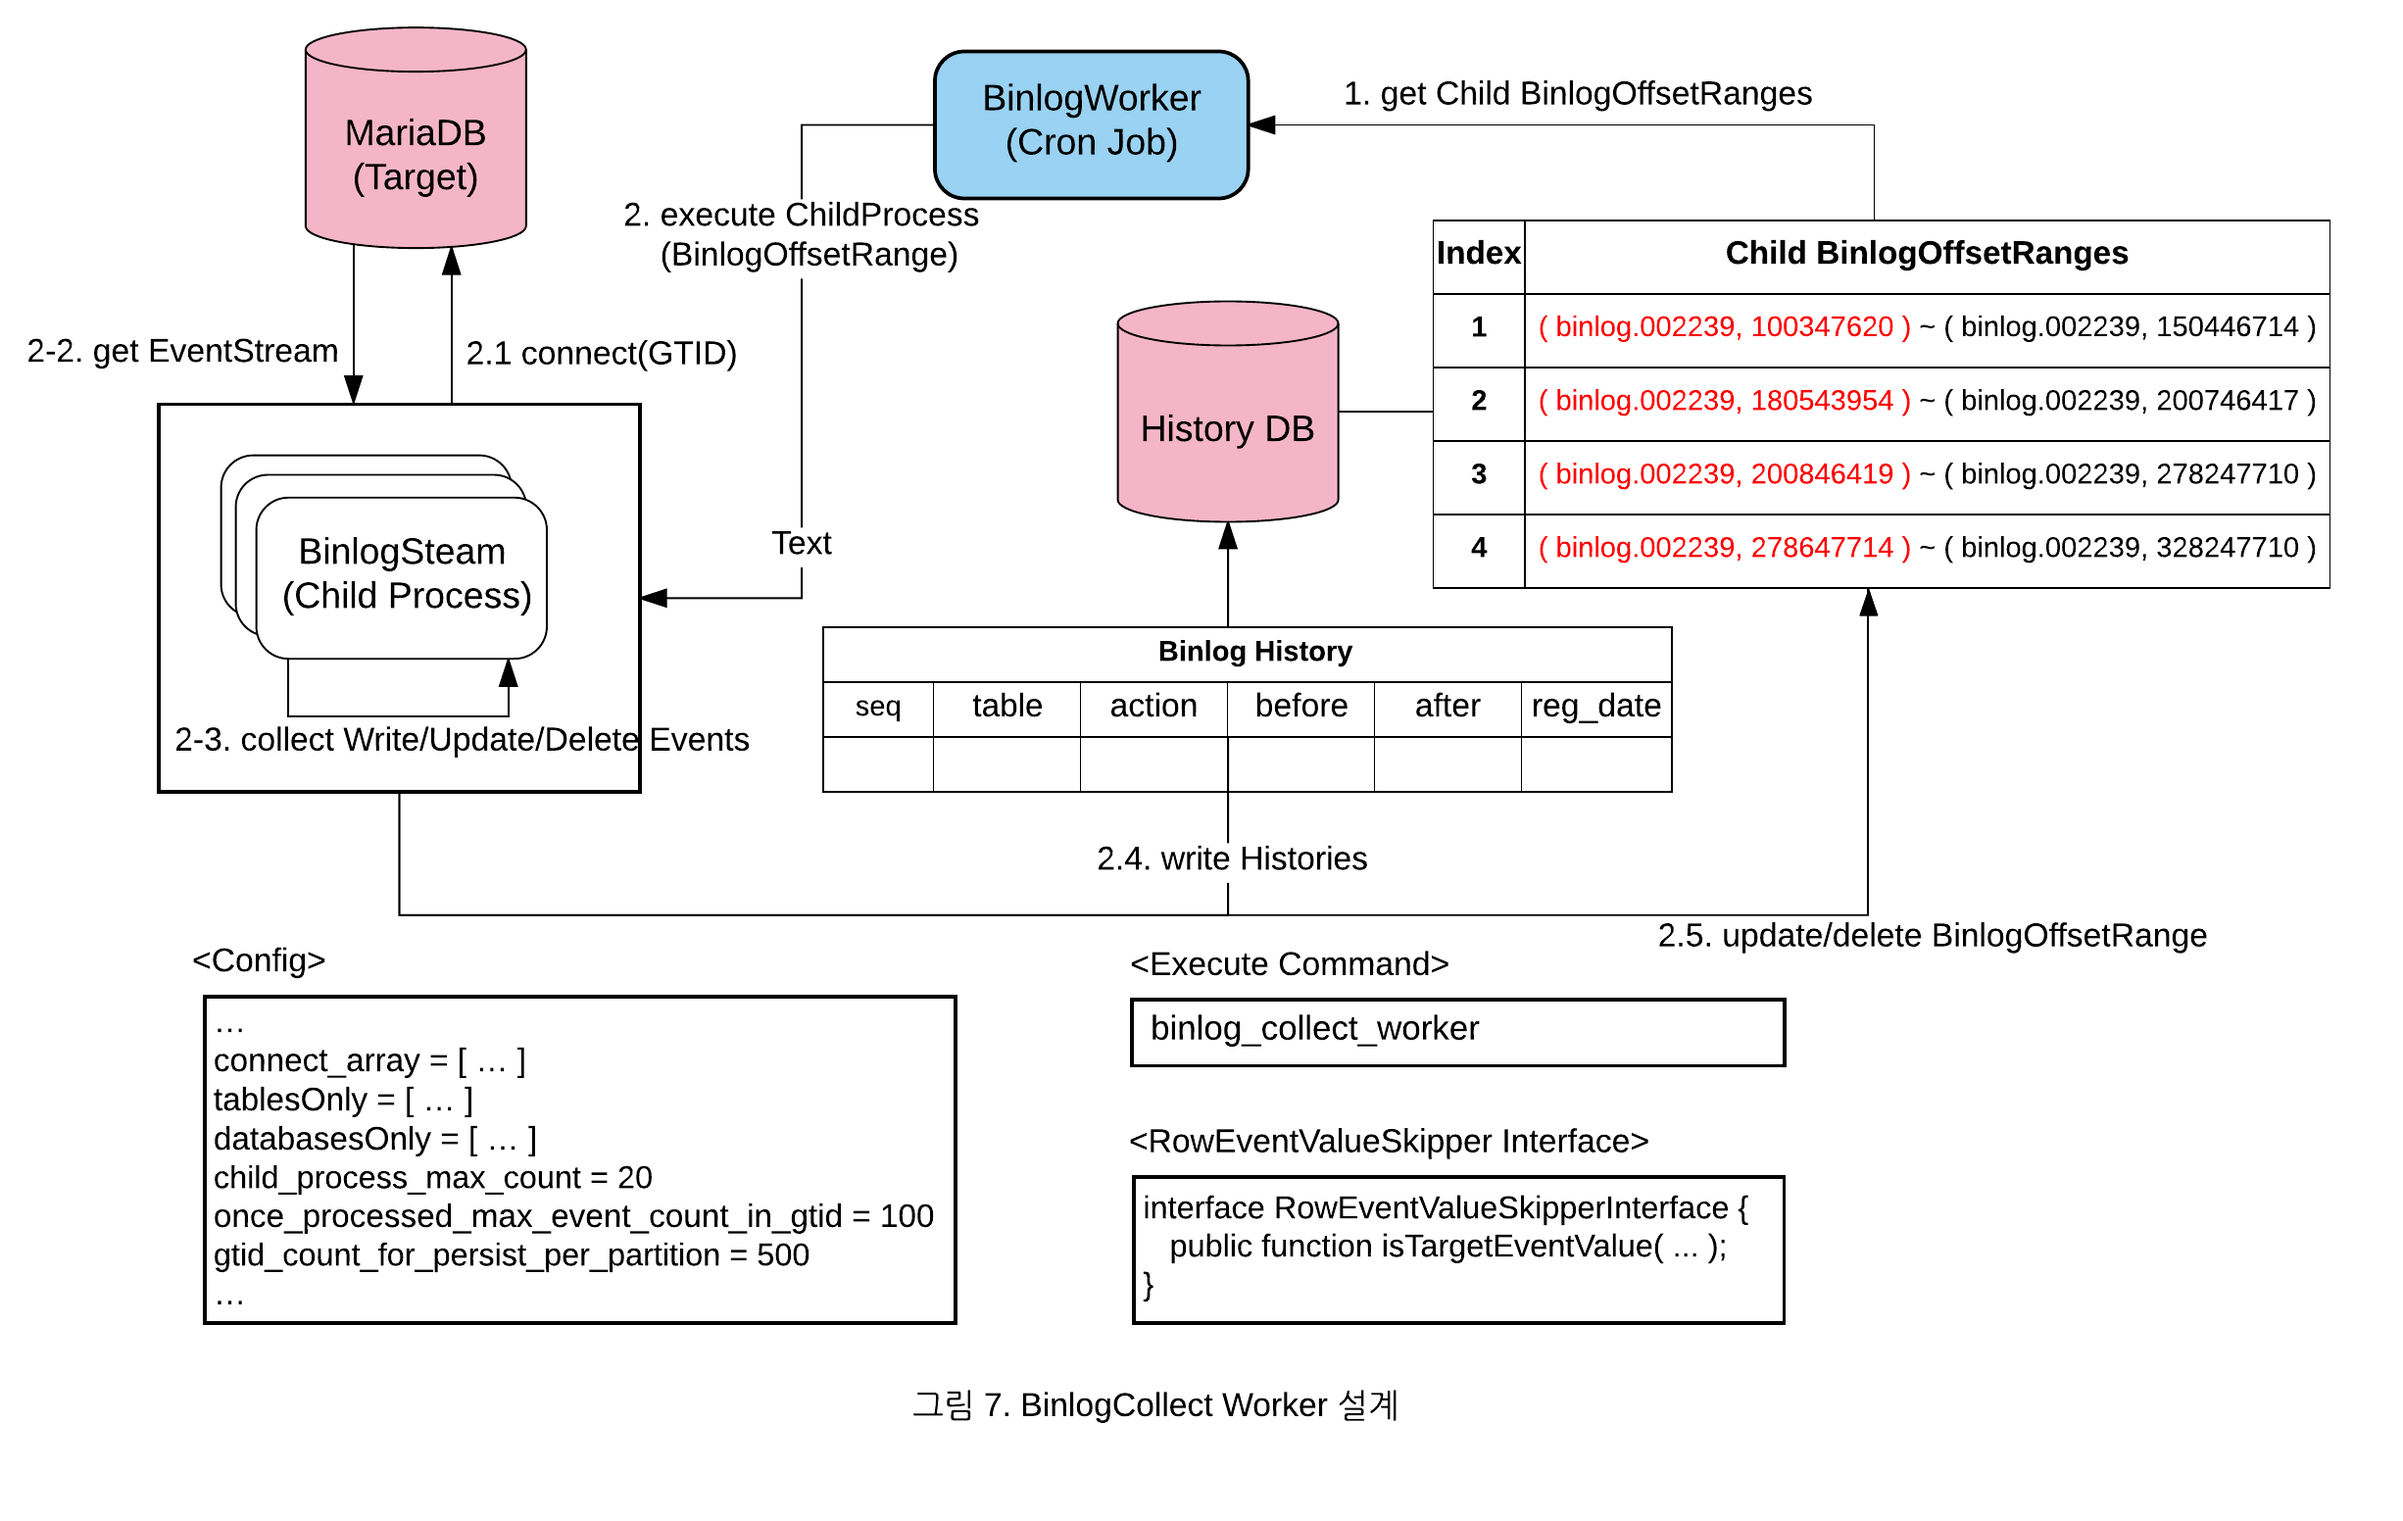
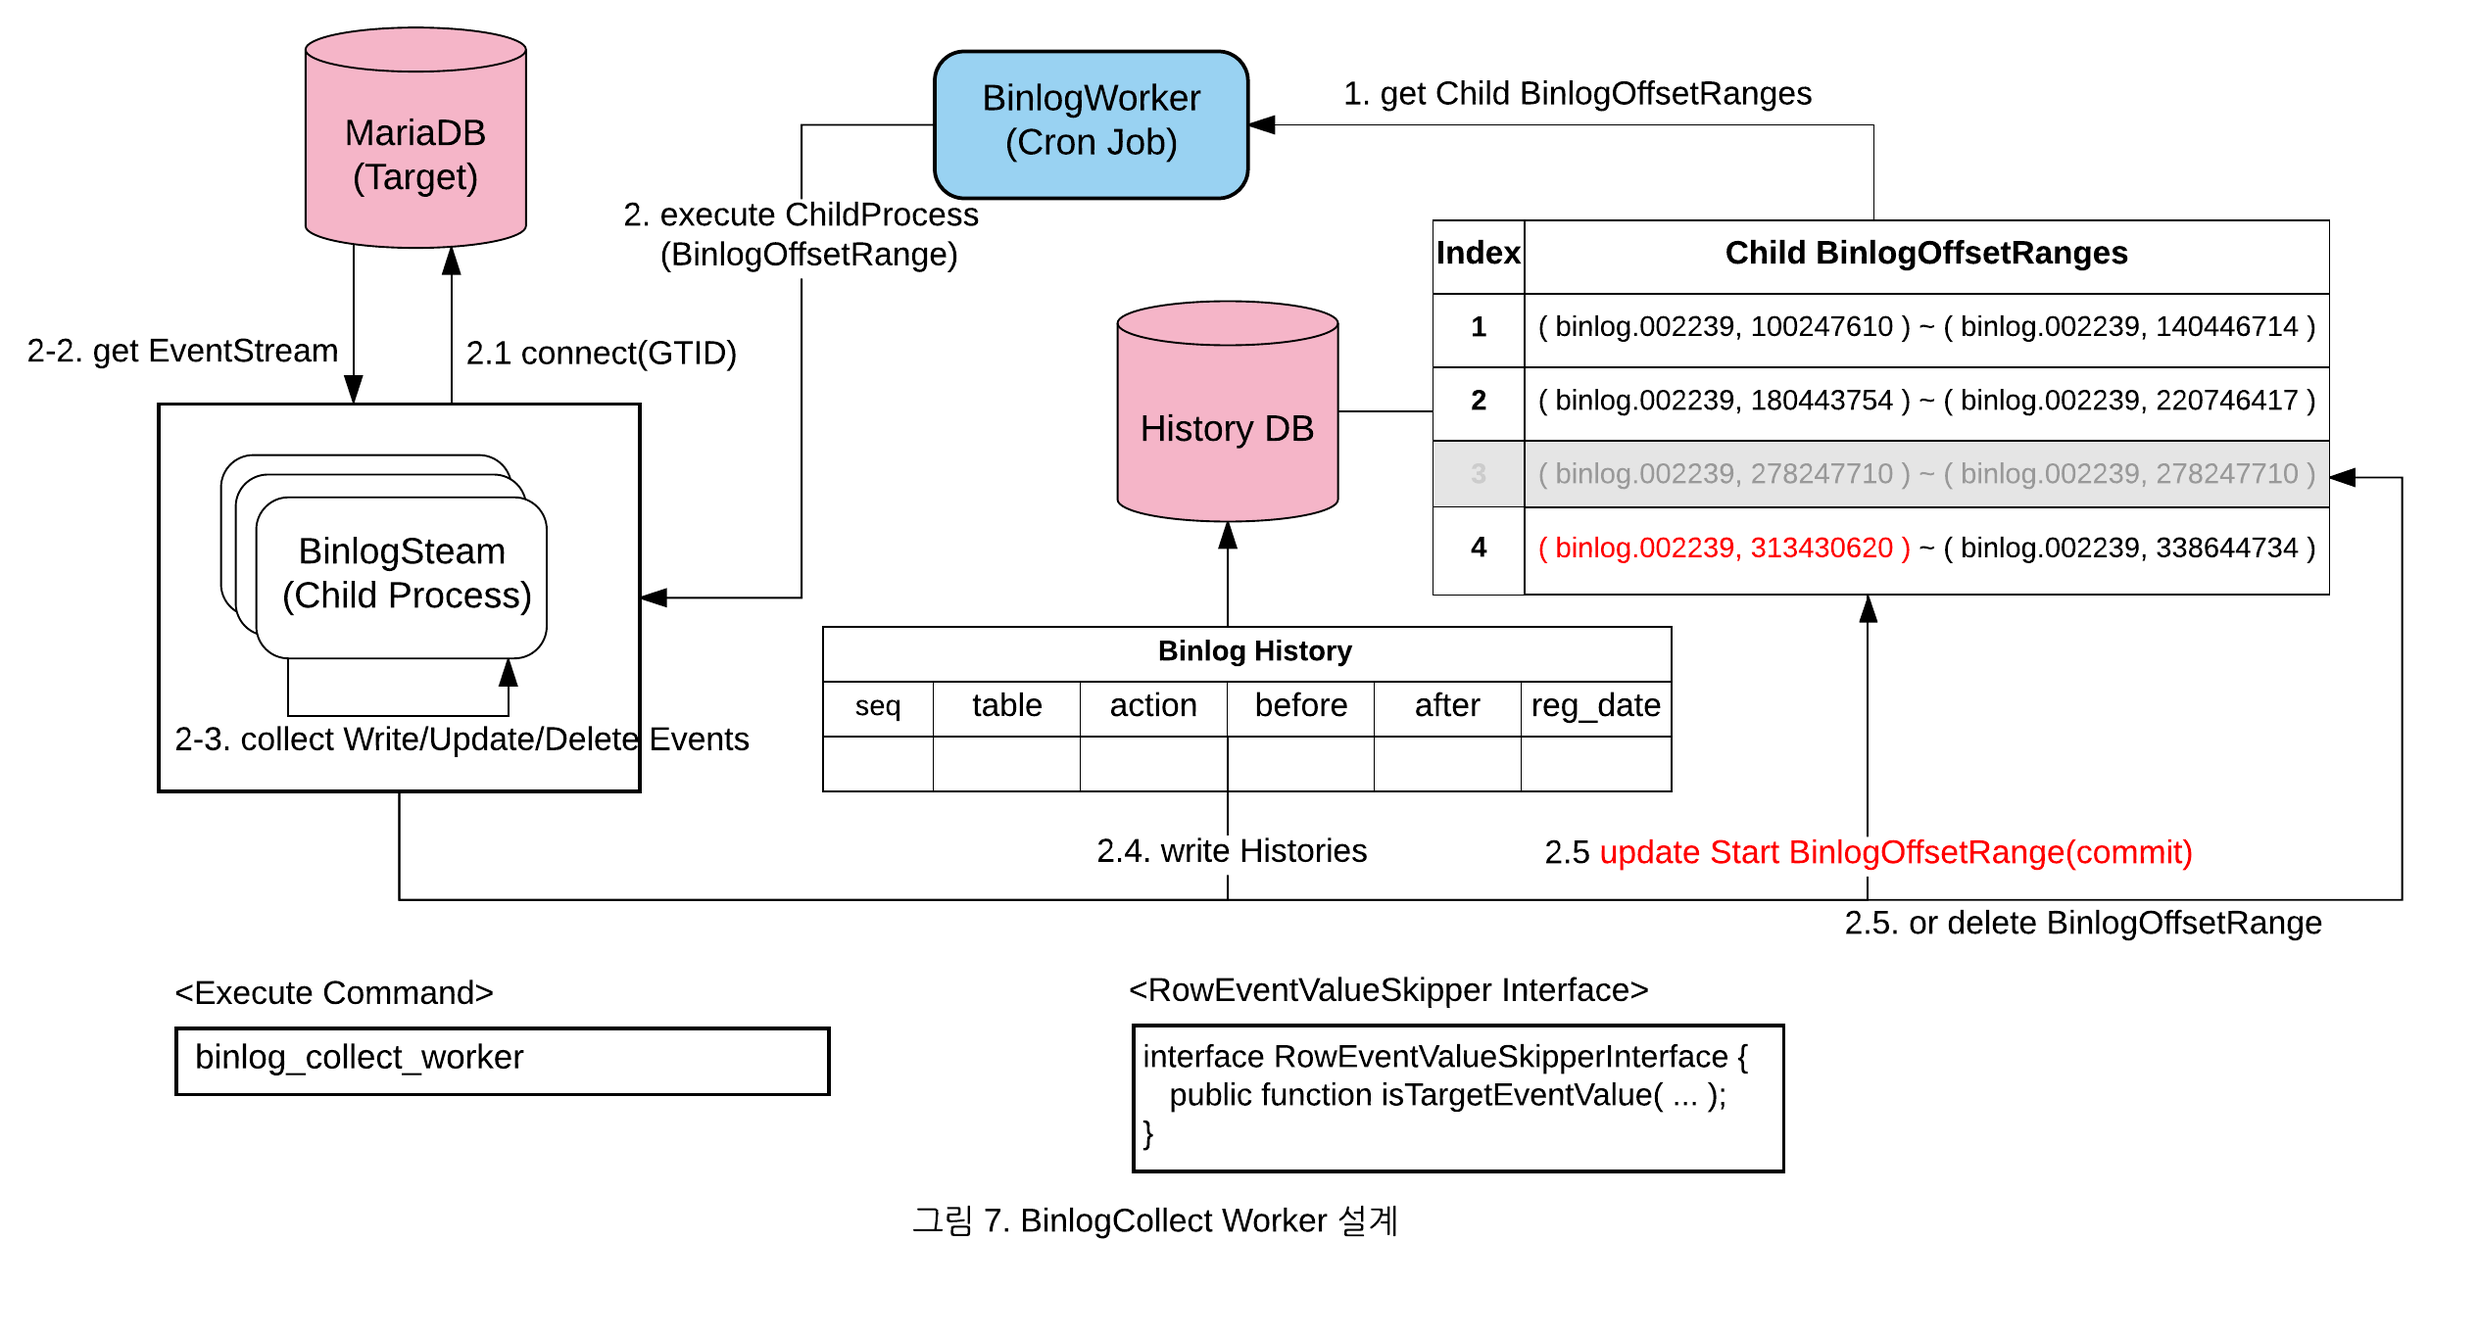
Binlog Worker 그림 단순화

diff --git a/_posts/2017-09-18-binlog-collector.md b/_posts/2017-09-18-binlog-collector.md
@@ -227,7 +227,7 @@ DB 복제를 위한 Binlog 이벤트 스트림은 태생적으로 GTID 기반으
 
 자세한 동작 방식은 다음과 같습니다.
 
-1. Child BinlogOffsetRange들을 조회
+1. 수집할 Child BinlogOffsetRanges를 조회
 2. 정해진 수만큼 Child Process를 생성하며, 각각 독립적으로 아래 과정을 거침
     1. 해당 BinlogOffsetRange의 시작 위치를 사용하여 타겟 DB에 연결
     2. Binlog 이벤트 스트림을 연결
@@ -235,19 +235,16 @@ DB 복제를 위한 Binlog 이벤트 스트림은 태생적으로 GTID 기반으
         * 관심없는 Rows들은 무시(RowEventValueSkipperInterface 구현체 사용)
     4. 수집한 데이터를 가공하여 저장
     5. 다음 조건에 따라 분석을 계속하거나 종료
-        * 설정된 개수(ex:500개)의 GTID를 지날 때마다 BinlogOffsetRange의 시작 부분을 갱신
+        * 설정된 개수(ex:500개)의 GTID를 지날 때마다 BinlogOffsetRange의 시작 부분을 갱신(**분석 완료 Commit**)
         * End에 도달하면, 해당 BinlogOffsetRange의 Row를 지우고 종료
     6. 2.3-2.5 과정을 반복
 
 이런 구조로 Binlog Collector를 개발하여 수집을 해 보았습니다. 그런데 설계시 예상하지 못한 몇가지 문제가 발견 되었습니다.
 1. **Partitioner 분할 범위가 커짐에 따라 속도 저하**
     * `SHOW BINLOG EVENTS`가 검색 기능이 없으므로, 분할 범위가 커짐에 따라 GTID 이벤트를 세는데 오버헤드가 커짐 
-        * ```
-          SHOW BINLOG EVENTS [IN 'log_name'] [FROM pos] [LIMIT [offset,] row_count]
-          ```
-    * **해결:** 위의 `LIMIT`를 이용해서 시작 위치부터 설정된 ROW 개수만큼 이동 후, 나오는 첫번째 GTID의 BinlogOffset으로 파티션을 나눔
-        * 새로운 점프 설정값: **jump_offset_for_next_partition**
-        * GTID 개수로 분할하던 기존 방법에 비해서 불필요한 연산이 줄어들어 빠름
+    * **해결:** 아래의 `LIMIT`를 이용해서 시작 위치부터 설정된 ROW 개수만큼 이동 후에 나오는 첫번째 GTID의 BinlogOffset으로 파티션을 나눔
+        * ```SHOW BINLOG EVENTS [IN 'log_name'] [FROM pos] [LIMIT [offset,] row_count]```
+        * GTID 개수로 정확하게 분할하던 기존 방법에 비해서 불필요한 연산이 줄어들어 빠름
 2. **상용에서 GTID 변환(`SELECT BINLOG_GTID_POS`) 속도 저하**
     * 상용환경에서 분석하고자 하는 테이블이 소량임에도 Master의 현재 위치를 따라 잡지 못하고, 계속 차이가 벌어지는 현상이 발생
     * **Binlog 파일이 클수록 GTID 변환 쿼리 속도가 느려지는 것**을 발견
